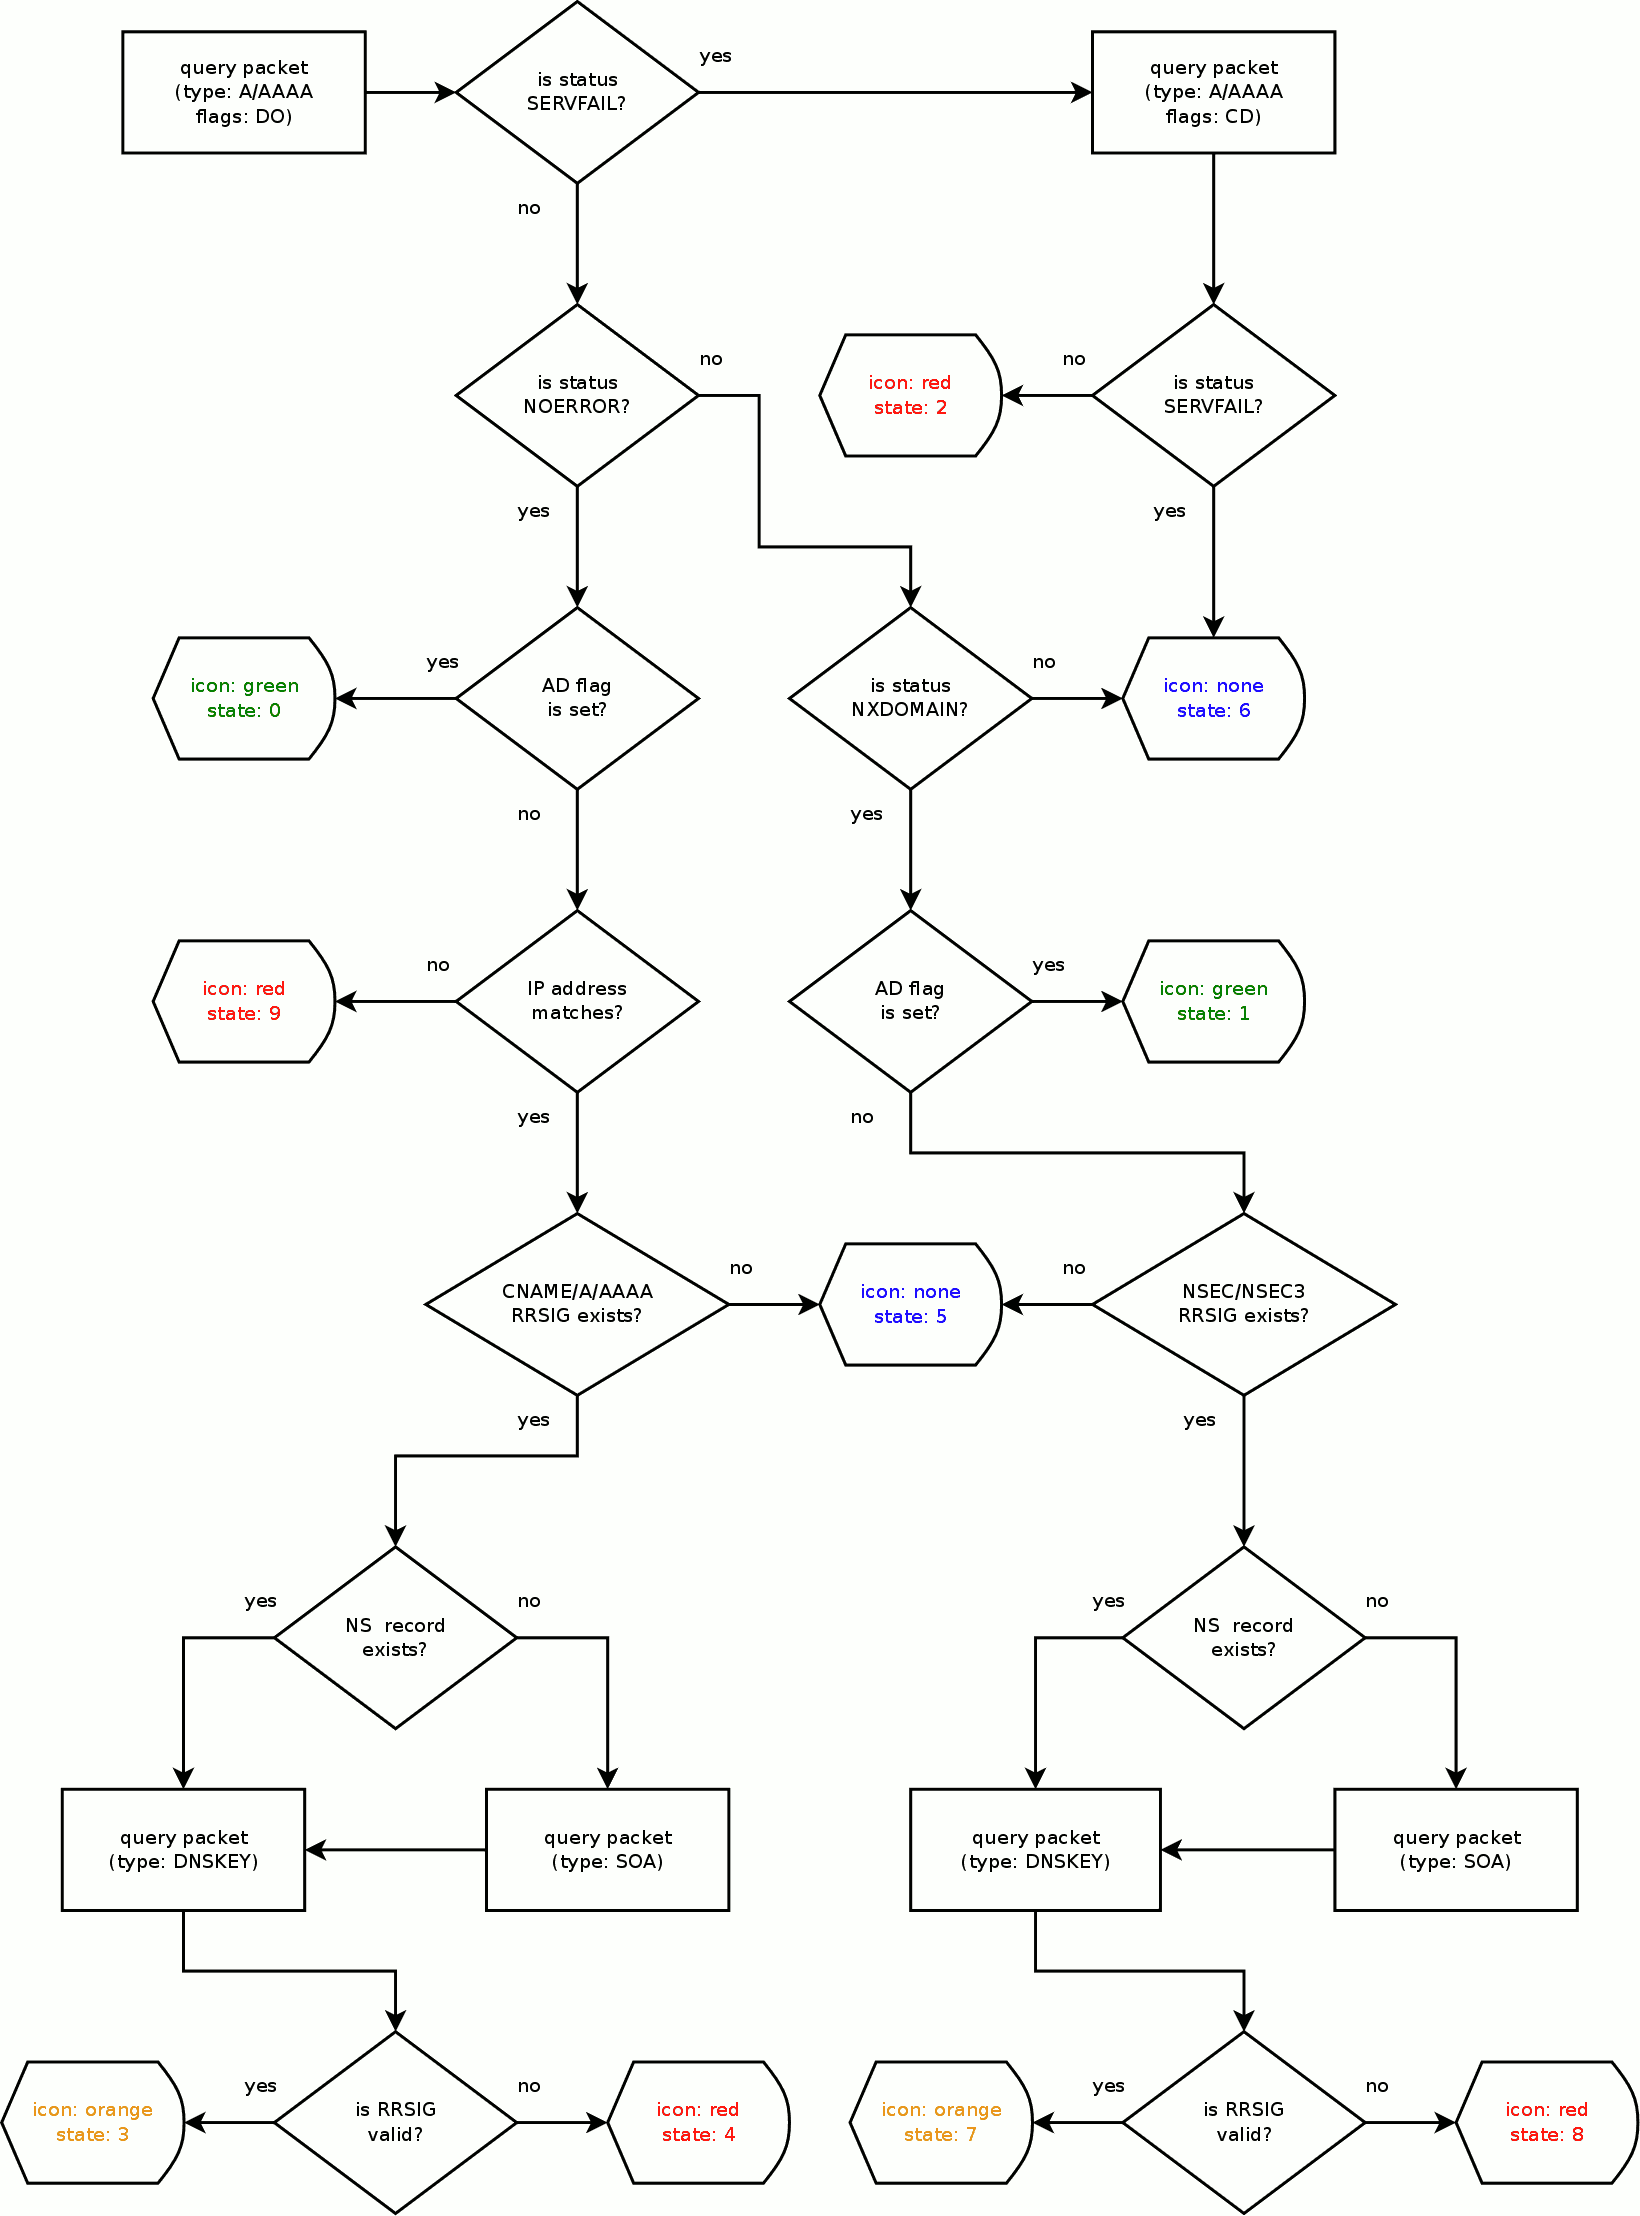
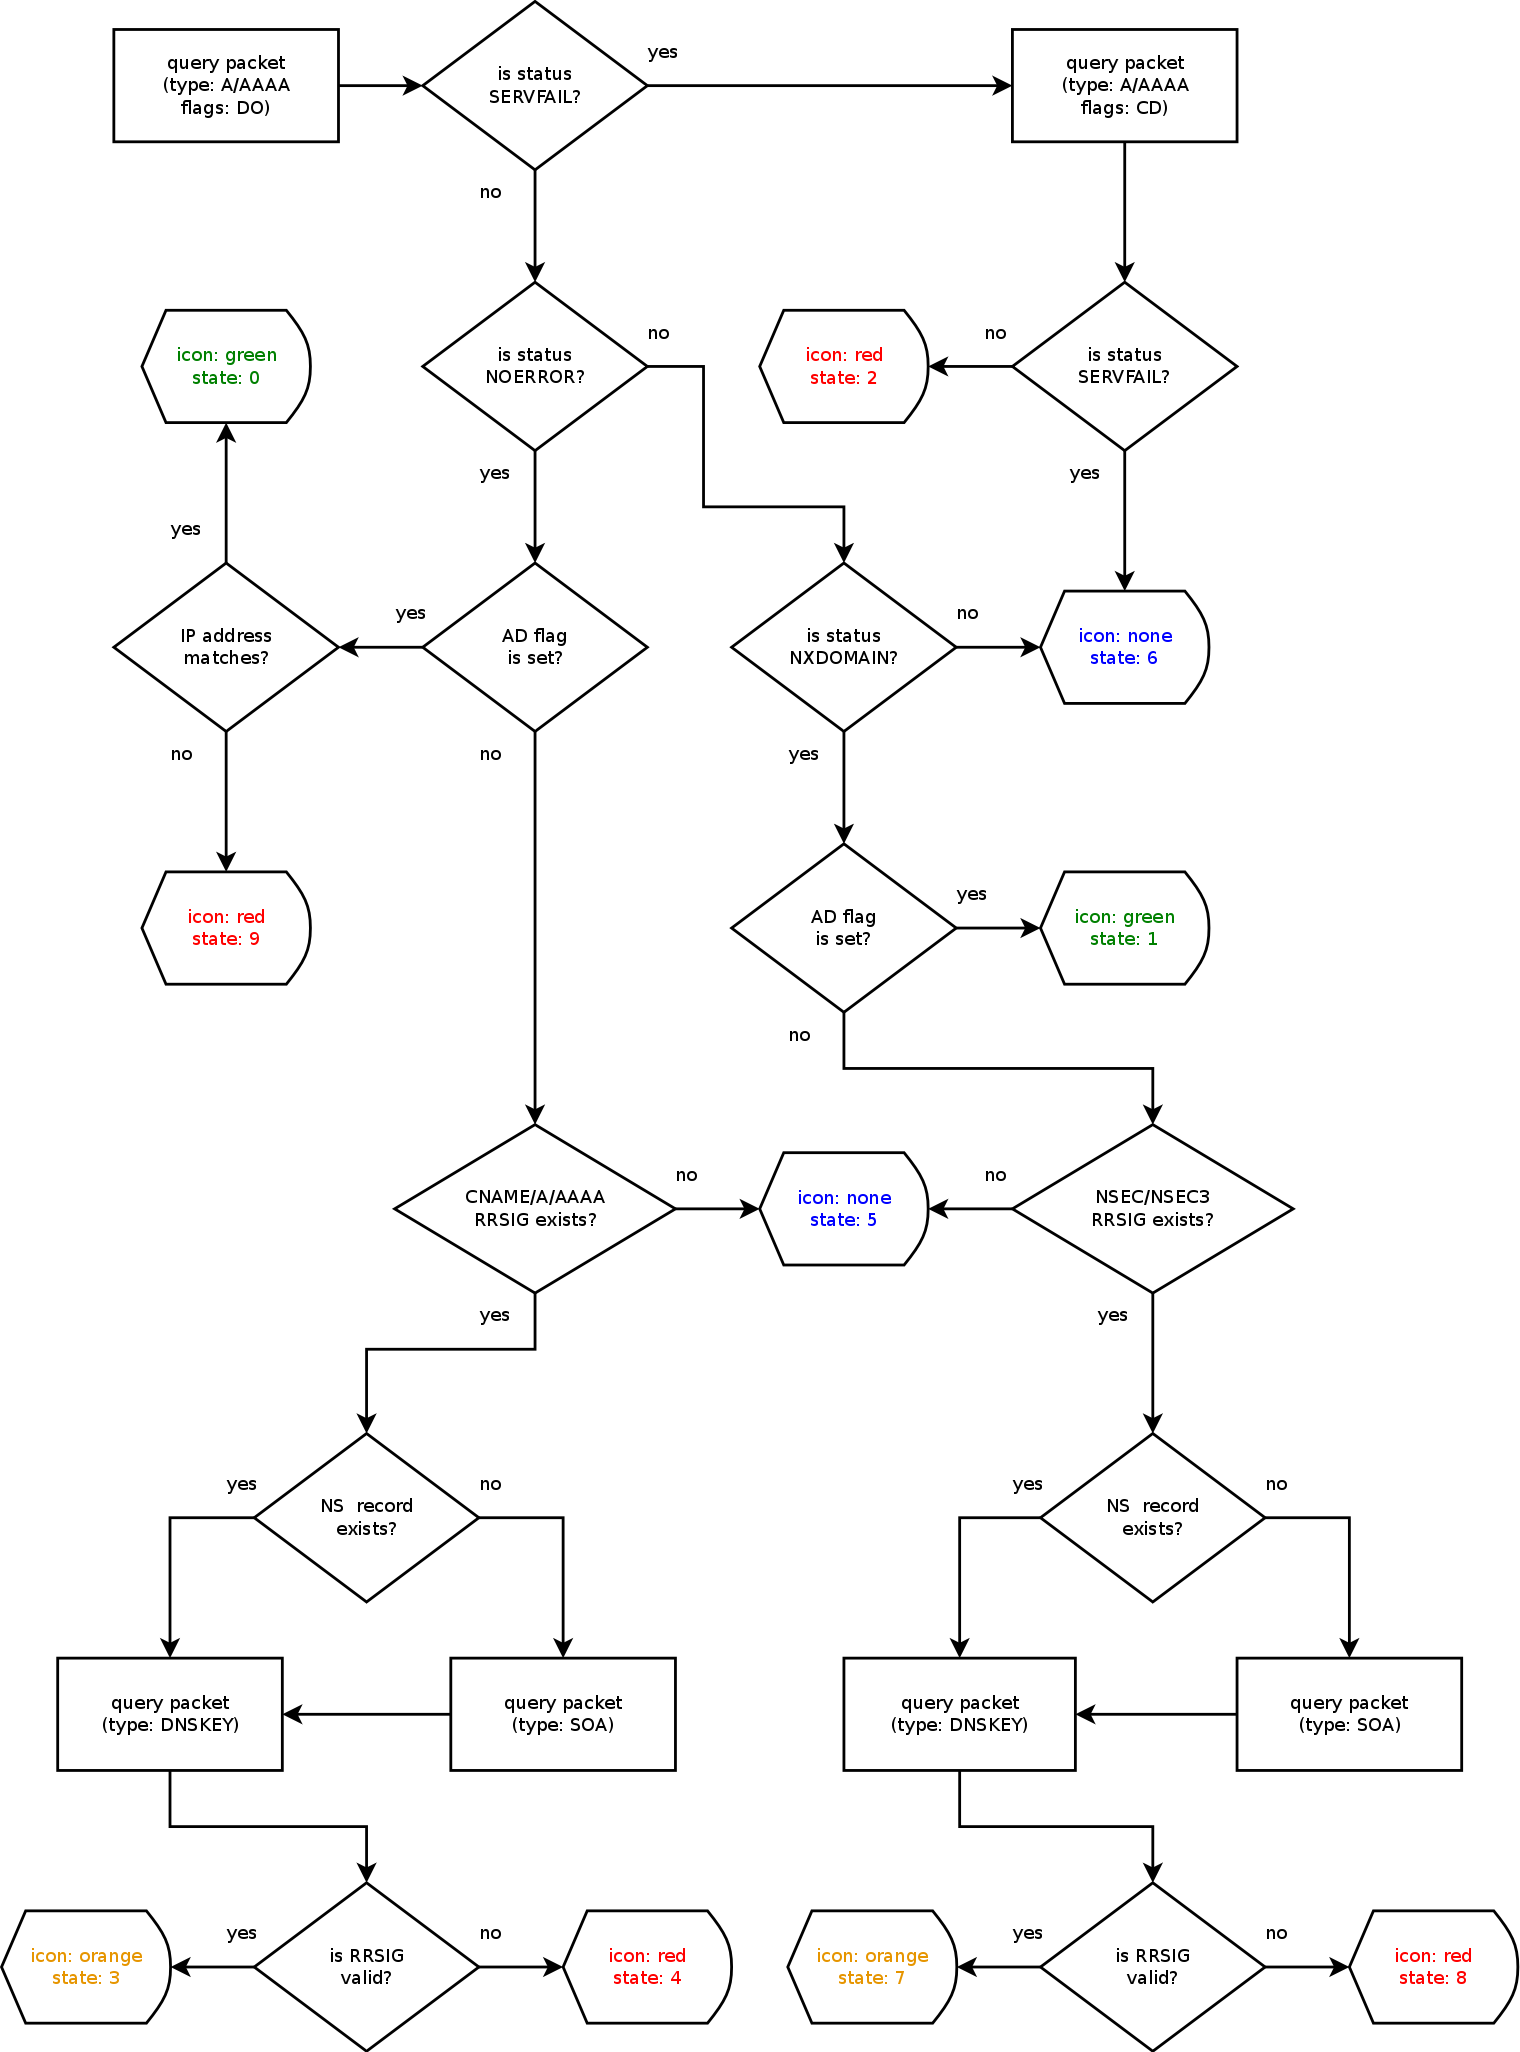
Interversion commit

diff --git a/content/overlay.js b/content/overlay.js
@@ -42,7 +42,7 @@ var dnssecExtension = {
   debugOutput: 0,
   debugPrefix: "dnssec: ",
   oldHost: null,
-  
+
   init: function() {
 
     // Enable debugging information on stdout if desired
@@ -54,7 +54,7 @@ var dnssecExtension = {
     }
 
     // Set unknown security state
-    getDnssecHandler().setSecurityState(Ci.dnssecIValidator.XPCOM_EXIT_UNSECURED);
+    getDnssecHandler().setSecurityState(Ci.dnssecIValidator.XPCOM_EXIT_UNSECURED, -1);
 
     // Listen for webpage loads
     gBrowser.addProgressListener(dnssecExt_urlBarListener,
@@ -79,7 +79,7 @@ var dnssecExtension = {
 
     if ((host == null) || (host.search(/^[A-Za-z0-9]+([-_\.]?[A-Za-z0-9])*\.[A-Za-z]{2,4}$/) == -1)) {   // test for valid hostname
       // Set unknown security state
-      getDnssecHandler().setSecurityState(Ci.dnssecIValidator.XPCOM_EXIT_UNSECURED);
+      getDnssecHandler().setSecurityState(Ci.dnssecIValidator.XPCOM_EXIT_UNSECURED, -1);
       this.oldHost = host;
       return;
     } else if (host == this.oldHost) {   // test for hostname change
@@ -96,7 +96,6 @@ var dnssecExtension = {
 /*
   onToolbarButtonCommand: function() {
 
-
   },
 */
 
@@ -104,8 +103,6 @@ var dnssecExtension = {
 
 window.addEventListener("load", function() {dnssecExtension.init()}, false);
 window.addEventListener("unload", function() {dnssecExtension.uninit()}, false);
-
-
 
 
 /**
@@ -118,6 +115,9 @@ function DnssecHandler() {
   this._staticStrings[this.DNSSEC_MODE_CONNECTION_DOMAIN_SECURED] = {
     security_label: this._stringBundle.getString("dnssec.connection.domain.secured")
   };
+  this._staticStrings[this.DNSSEC_MODE_CONNECTION_DOMAIN_INVIPADDR_SECURED] = {
+    security_label: this._stringBundle.getString("dnssec.connection.domain.invipaddr.secured")
+  };
   this._staticStrings[this.DNSSEC_MODE_CONNECTION_NODOMAIN_SECURED] = {
     security_label: this._stringBundle.getString("dnssec.connection.nodomain.secured")
   };
@@ -127,8 +127,14 @@ function DnssecHandler() {
   this._staticStrings[this.DNSSEC_MODE_DOMAIN_SIGNATURE_VALID] = {
     security_label: this._stringBundle.getString("dnssec.domain.signature.valid")
   };
+  this._staticStrings[this.DNSSEC_MODE_INVIPADDR_DOMAIN_SIGNATURE_VALID] = {
+    security_label: this._stringBundle.getString("dnssec.invipaddr.domain.signature.valid")
+  };
   this._staticStrings[this.DNSSEC_MODE_DOMAIN_SIGNATURE_INVALID] = {
     security_label: this._stringBundle.getString("dnssec.domain.signature.invalid")
+  };
+  this._staticStrings[this.DNSSEC_MODE_INVIPADDR_DOMAIN_SIGNATURE_INVALID] = {
+    security_label: this._stringBundle.getString("dnssec.invipaddr.domain.signature.invalid")
   };
 
   this._cacheElements();
@@ -139,17 +145,23 @@ DnssecHandler.prototype = {
   // Mode strings used to control CSS display
 
   // Domain and also connection are secured
-  DNSSEC_MODE_CONNECTION_DOMAIN_SECURED       : "securedConnectionDomain",
+  DNSSEC_MODE_CONNECTION_DOMAIN_SECURED           : "securedConnectionDomain",
+  // Domain and also connection are secured but browser's IP address is invalid
+  DNSSEC_MODE_CONNECTION_DOMAIN_INVIPADDR_SECURED : "securedConnectionDomainInvIPaddr",
   // Connection is secured, but domain name does not exist
-  DNSSEC_MODE_CONNECTION_NODOMAIN_SECURED     : "securedConnectionNoDomain",
+  DNSSEC_MODE_CONNECTION_NODOMAIN_SECURED         : "securedConnectionNoDomain",
   // Connection is secured, but domain name signature is invalid
-  DNSSEC_MODE_CONNECTION_INVSIGDOMAIN_SECURED : "securedConnectionInvSigDomain",
+  DNSSEC_MODE_CONNECTION_INVSIGDOMAIN_SECURED     : "securedConnectionInvSigDomain",
   // Domain is secured and has a valid signature, but no chain of trust
-  DNSSEC_MODE_DOMAIN_SIGNATURE_VALID          : "validDomainSignature",
-  // Domain is secured, but has an invalid signature
-  DNSSEC_MODE_DOMAIN_SIGNATURE_INVALID        : "invalidDomainSignature",
+  DNSSEC_MODE_DOMAIN_SIGNATURE_VALID              : "validDomainSignature",
+  // Domain is secured and has a valid signature, but browser's IP address is invalid
+  DNSSEC_MODE_INVIPADDR_DOMAIN_SIGNATURE_VALID    : "validDomainSignatureInvIPaddr",
+  // Domain is secured, but it has an invalid signature
+  DNSSEC_MODE_DOMAIN_SIGNATURE_INVALID            : "invalidDomainSignature",
+  // Domain is secured, but signature and browser's IP address are invalid
+  DNSSEC_MODE_INVIPADDR_DOMAIN_SIGNATURE_INVALID  : "invalidDomainSignatureInvIPaddr",
   // No trusted security information
-  DNSSEC_MODE_UNSECURED                       : "unsecuredDnssec",
+  DNSSEC_MODE_UNSECURED                           : "unsecuredDnssec",
 
   // Cache the most recent hostname seen in checkSecurity
   _hostName : null,
@@ -164,11 +176,15 @@ DnssecHandler.prototype = {
   },
 
   /* Set appropriate security state */
-  setSecurityState : function(state) {
+  setSecurityState : function(state, invipaddr) {
 
     switch (state) {
     case Ci.dnssecIValidator.XPCOM_EXIT_CONNECTION_DOMAIN_SECURED:
-      this.setMode(this.DNSSEC_MODE_CONNECTION_DOMAIN_SECURED);
+      if (!invipaddr) {
+        this.setMode(this.DNSSEC_MODE_CONNECTION_DOMAIN_SECURED);
+      } else {
+        this.setMode(this.DNSSEC_MODE_CONNECTION_DOMAIN_INVIPADDR_SECURED);
+      }
       this._dnssecBox.hidden = false;
       break;
     case Ci.dnssecIValidator.XPCOM_EXIT_CONNECTION_NODOMAIN_SECURED:
@@ -180,11 +196,19 @@ DnssecHandler.prototype = {
       this._dnssecBox.hidden = false;
       break;
     case Ci.dnssecIValidator.XPCOM_EXIT_DOMAIN_SIGNATURE_VALID:
-      this.setMode(this.DNSSEC_MODE_DOMAIN_SIGNATURE_VALID);
+      if (!invipaddr) {
+        this.setMode(this.DNSSEC_MODE_DOMAIN_SIGNATURE_VALID);
+      } else {
+        this.setMode(this.DNSSEC_MODE_INVIPADDR_DOMAIN_SIGNATURE_VALID);
+      }
       this._dnssecBox.hidden = false;
       break;
     case Ci.dnssecIValidator.XPCOM_EXIT_DOMAIN_SIGNATURE_INVALID:
-      this.setMode(this.DNSSEC_MODE_DOMAIN_SIGNATURE_INVALID);
+      if (!invipaddr) {
+        this.setMode(this.DNSSEC_MODE_DOMAIN_SIGNATURE_INVALID);
+      } else {
+        this.setMode(this.DNSSEC_MODE_INVIPADDR_DOMAIN_SIGNATURE_INVALID);
+      }
       this._dnssecBox.hidden = false;
       break;
     case Ci.dnssecIValidator.XPCOM_EXIT_UNSECURED:
@@ -214,10 +238,11 @@ DnssecHandler.prototype = {
       onLookupComplete: function(aRequest, aRecord, aStatus) {
 
         var resolvipv6 = 0; // Default version is ipv4 if resolving fails
+        var addr = "";
 
         if (aRecord && aRecord.hasMore()) {   // Address list is not empty
 
-          var addr = aRecord.getNextAddrAsString();
+          addr = aRecord.getNextAddrAsString();
           if (dnssecExtension.debugOutput)
             dump(dnssecExtension.debugPrefix + 'Browser address: ' + addr + '\n');
 
@@ -235,7 +260,7 @@ DnssecHandler.prototype = {
         if (dnssecExtension.debugOutput)
           dump(dnssecExtension.debugPrefix + 'Browser uses IPv6 resolving: ' + resolvipv6 + '\n');
 
-        /* XPCOM validation call */
+        /* Use validator's XPCOM interface */
         try {
           netscape.security.PrivilegeManager.enablePrivilege("UniversalXPConnect");
           const cid = "@nic.cz/dnssecValidator;1";
@@ -263,13 +288,33 @@ DnssecHandler.prototype = {
                + getDnssecHandler()._hostName + '; ' + options + '; ' + nameserver + '\n');
 
         // Call XPCOM validation
-        var res = obj.Validate(getDnssecHandler()._hostName, options, nameserver);
+        var resaddrs = {};
+        var res = obj.Validate(getDnssecHandler()._hostName, options, nameserver, resaddrs);
 
         if (dnssecExtension.debugOutput)
-          dump(dnssecExtension.debugPrefix + 'XPCOM return value: ' + res + '\n');
+          dump(dnssecExtension.debugPrefix + 'Getting return values: ' + res + '; '
+               + resaddrs.value + '\n');
+
+
+        var invipaddr = 0; // Browser's IP addresses are presumed as valid
+        if (aRecord && resaddrs.value) {
+          aRecord.rewind();
+          while (aRecord.hasMore()) {   // Address list has another item
+
+            addr = aRecord.getNextAddrAsString();
+
+            // Check if each browser's address is present in DNSSEC address resolved list
+            if (resaddrs.value.indexOf(addr) == -1) invipaddr = 1;
+
+            if (dnssecExtension.debugOutput)
+              dump(dnssecExtension.debugPrefix + 'Checking browser IP: '
+                   + addr + ', address is invalid...' + invipaddr + '\n');
+
+          }
+        }
 
         // Set appropriate state
-        getDnssecHandler().setSecurityState(res);
+        getDnssecHandler().setSecurityState(res, invipaddr);
 
       }
     };
@@ -321,6 +366,8 @@ DnssecHandler.prototype = {
     switch (newMode) {
     // Both domain and connection are secured
     case this.DNSSEC_MODE_CONNECTION_DOMAIN_SECURED:
+    // Domain and also connection are secured but browser's IP address is invalid
+    case this.DNSSEC_MODE_CONNECTION_DOMAIN_INVIPADDR_SECURED:
     // Both non-existing domain and connection are secured
     case this.DNSSEC_MODE_CONNECTION_NODOMAIN_SECURED:
     // Connection is secured, but domain signature is invalid
@@ -329,8 +376,10 @@ DnssecHandler.prototype = {
       break;
     // Domain signature is valid
     case this.DNSSEC_MODE_DOMAIN_SIGNATURE_VALID:
+    case this.DNSSEC_MODE_INVIPADDR_DOMAIN_SIGNATURE_VALID:
     // Domain signature is invalid
     case this.DNSSEC_MODE_DOMAIN_SIGNATURE_INVALID:
+    case this.DNSSEC_MODE_INVIPADDR_DOMAIN_SIGNATURE_INVALID:
       tooltip = this._stringBundle.getString("dnssec.tooltip.unsecured");
       break;
     // Unknown

diff --git a/skin/overlay.css b/skin/overlay.css
@@ -44,8 +44,11 @@
   outline: 1px dotted -moz-DialogText;
 }
 
+#dnssec-box.securedConnectionDomainInvIPaddr,
+#dnssec-box.validDomainSignatureInvIPaddr,
 #dnssec-box.securedConnectionInvSigDomain,
-#dnssec-box.invalidDomainSignature {
+#dnssec-box.invalidDomainSignature,
+#dnssec-box.invalidDomainSignatureInvIPaddr {
   background-color: rgba(238, 46, 36, 1.0); /* red */
   color: white;
 }
@@ -87,17 +90,23 @@
 /*  background-color: #4c69bc; */
 }
 
+/* orange */
 #dnssec-popup.validDomainSignature > #dnssec-popup-container > #dnssec-popup-icon {
   list-style-image: url("chrome://dnssec/skin/logo.png");
   -moz-image-region: rect(0px, 390px, 38px, 260px);
 }
 
+/* red */
+#dnssec-popup.securedConnectionDomainInvIPaddr > #dnssec-popup-container > #dnssec-popup-icon,
 #dnssec-popup.securedConnectionInvSigDomain > #dnssec-popup-container > #dnssec-popup-icon,
-#dnssec-popup.invalidDomainSignature > #dnssec-popup-container > #dnssec-popup-icon {
+#dnssec-popup.invalidDomainSignature > #dnssec-popup-container > #dnssec-popup-icon,
+#dnssec-popup.validDomainSignatureInvIPaddr > #dnssec-popup-container > #dnssec-popup-icon,
+#dnssec-popup.invalidDomainSignatureInvIPaddr > #dnssec-popup-container > #dnssec-popup-icon {
   list-style-image: url("chrome://dnssec/skin/logo.png");
   -moz-image-region: rect(0px, 260px, 38px, 130px);
 }
 
+/* green */
 #dnssec-popup.securedConnectionDomain > #dnssec-popup-container > #dnssec-popup-icon,
 #dnssec-popup.securedConnectionNoDomain > #dnssec-popup-container > #dnssec-popup-icon {
   list-style-image: url("chrome://dnssec/skin/logo.png");
@@ -143,13 +152,19 @@
 /* DNSSEC popup UI */
 #dnssec-popup-content-box.securedConnectionDomain > #dnssec-popup-securedLabel,
 #dnssec-popup-content-box.securedConnectionDomain > #dnssec-popup-domainLabel,
+#dnssec-popup-content-box.securedConnectionDomainInvIPaddr > #dnssec-popup-securedLabel,
+#dnssec-popup-content-box.securedConnectionDomainInvIPaddr > #dnssec-popup-domainLabel,
 #dnssec-popup-content-box.securedConnectionNoDomain > #dnssec-popup-securedLabel,
 #dnssec-popup-content-box.securedConnectionNoDomain > #dnssec-popup-nodomainLabel,
 #dnssec-popup-content-box.securedConnectionInvSigDomain > #dnssec-popup-securedLabel,
 #dnssec-popup-content-box.securedConnectionInvSigDomain > #dnssec-popup-domainLabel,
 #dnssec-popup-content-box.validDomainSignature > #dnssec-popup-unsecuredLabel,
 #dnssec-popup-content-box.validDomainSignature > #dnssec-popup-domainLabel,
+#dnssec-popup-content-box.validDomainSignatureInvIPaddr > #dnssec-popup-unsecuredLabel,
+#dnssec-popup-content-box.validDomainSignatureInvIPaddr > #dnssec-popup-domainLabel,
 #dnssec-popup-content-box.invalidDomainSignature > #dnssec-popup-unsecuredLabel,
-#dnssec-popup-content-box.invalidDomainSignature > #dnssec-popup-domainLabel {
+#dnssec-popup-content-box.invalidDomainSignature > #dnssec-popup-domainLabel,
+#dnssec-popup-content-box.invalidDomainSignatureInvIPaddr > #dnssec-popup-unsecuredLabel,
+#dnssec-popup-content-box.invalidDomainSignatureInvIPaddr > #dnssec-popup-domainLabel {
   display: inline;
 }
